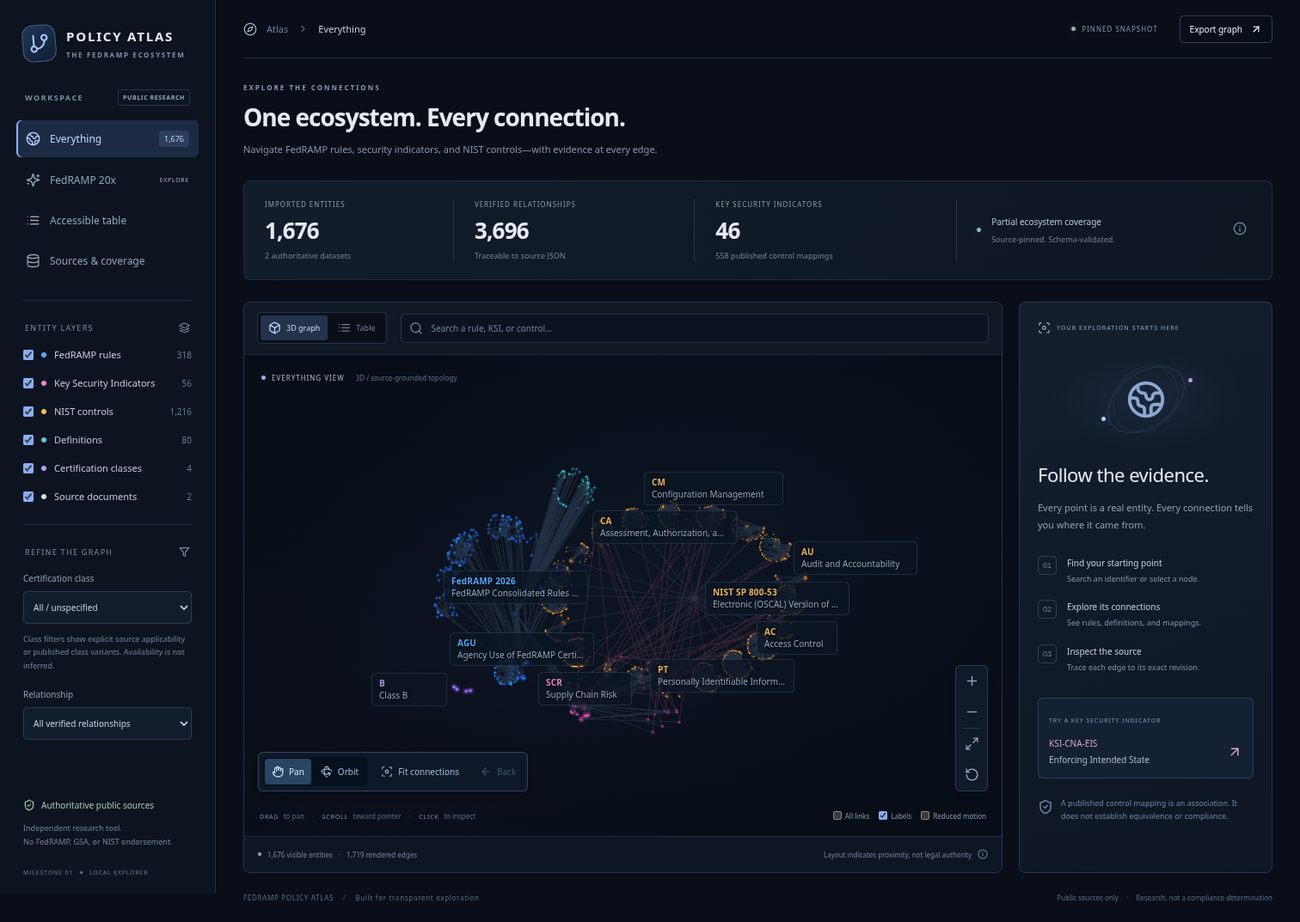
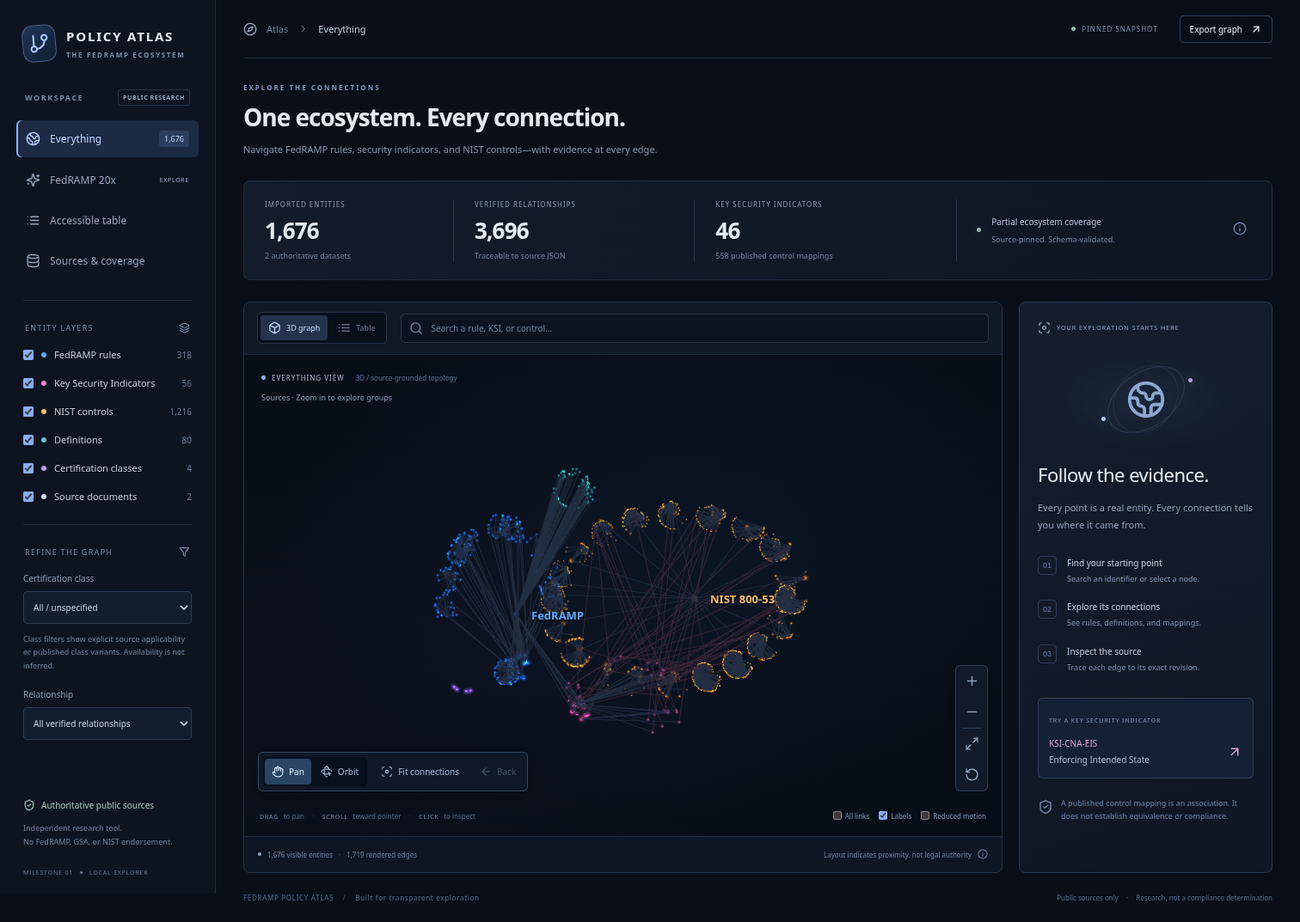
Simplify map labels into source, group, and detail zoom levels

diff --git a/src/graph/universe-engine.ts b/src/graph/universe-engine.ts
@@ -2,7 +2,7 @@ import * as THREE from 'three';
 import {OrbitControls} from 'three/addons/controls/OrbitControls.js';
 import type {Entity,Edge} from '../data/types';
 import {entityColor,neighbors,type Position} from './model';
-import {fittedBounds,hubKinds,labelPriority,placeLabels,type LabelCandidate,relationshipNames,detailLabelsEnabled,canonicalView} from './navigation';
+import {fittedBounds,hubKinds,labelPriority,placeLabels,type LabelCandidate,relationshipNames,labelLevel,labelKindVisible,labelBudget,type LabelLevel,canonicalView} from './navigation';
 interface CameraFrame {position:THREE.Vector3;target:THREE.Vector3}
 interface Label {node:Entity;element:HTMLButtonElement;width:number;height:number}
 export class UniverseEngine {
@@ -45,8 +45,8 @@ export class UniverseEngine {
  private lastLabelFrame:CameraFrame|null=null;
  private labelDimensions='';
  private labelAnchors=new Map<string,number>();
- private detailEligibleIds=new Set<string>();
- private detailedLabels=false;
+ private level:LabelLevel='sources';
+ private levelHint=document.createElement('div');
  private overviewDistance=650;
  private resetLayoutOnAnimationEnd=false;
  private activeEdge='';
@@ -61,12 +61,13 @@ export class UniverseEngine {
   this.points=new THREE.Points(new THREE.BufferGeometry(),new THREE.ShaderMaterial({transparent:true,depthWrite:false,vertexShader:'attribute vec3 color; attribute float size; varying vec3 vColor; void main(){vColor=color;vec4 mv=modelViewMatrix*vec4(position,1.0);gl_Position=projectionMatrix*mv;gl_PointSize=size*clamp(650.0/-mv.z,0.4,5.0);}',fragmentShader:'varying vec3 vColor; void main(){float r=length(gl_PointCoord-0.5)*2.0;if(r>1.0)discard;gl_FragColor=vec4(vColor*(1.0+exp(-r*r*30.0)),exp(-r*r*3.5));}',blending:THREE.AdditiveBlending}));this.scene.add(this.points);
   this.lines=new THREE.LineSegments(new THREE.BufferGeometry(),new THREE.LineBasicMaterial({vertexColors:true,transparent:true,opacity:.75,depthWrite:false}));this.scene.add(this.lines);
   this.ring=new THREE.Mesh(new THREE.RingGeometry(1,1.18,48),new THREE.MeshBasicMaterial({color:0xf4e9ff,transparent:true,opacity:.95,depthTest:false,side:THREE.DoubleSide}));this.ring.renderOrder=100;this.ring.visible=false;this.scene.add(this.ring);
-  this.labelLayer.className='graph-labels adaptive-labels';this.edgeLayer.className='edge-labels';host.append(this.labelLayer,this.edgeLayer);
-  const measure=document.createElement('canvas').getContext('2d')!;measure.font='11px system-ui';
+  this.labelLayer.className='graph-labels adaptive-labels';this.edgeLayer.className='edge-labels';this.levelHint.className='map-level-hint';host.append(this.labelLayer,this.edgeLayer,this.levelHint);
+  const measure=document.createElement('canvas').getContext('2d')!;
   for(const n of allNodes){const element=document.createElement('button');element.className='map-label';element.dataset.nodeId=n.id;element.title=`${n.sourceIdentifier??n.id} · ${n.title}`;
-   const id=document.createElement('strong');id.textContent=n.kind==='source'?(n.id==='nist'?'NIST SP 800-53':'FedRAMP 2026'):n.sourceIdentifier??(hubKinds.has(n.kind)?n.id.split(':').at(-1)!.toUpperCase():n.id);
-   const title=document.createElement('span');title.textContent=n.title;element.append(id,title);element.style.color=entityColor(n);element.onclick=()=>this.onSelect(n.id);element.style.display='none';element.dataset.kind=n.kind;
-   const width=Math.max(88,Math.min(168,Math.ceil(Math.max(measure.measureText(id.textContent).width,measure.measureText(n.title).width)+18)));element.style.width=width+'px';this.labelObjects.set(n.id,{node:n,element,width,height:39});this.labelLayer.appendChild(element);
+   const text=n.kind==='source'?(n.id==='nist'?'NIST 800-53':'FedRAMP'):hubKinds.has(n.kind)?n.title:n.sourceIdentifier??n.title;
+   const title=document.createElement('strong');title.textContent=text;element.append(title);element.setAttribute('aria-label',`${text} · ${n.title}`);element.style.color=entityColor(n);element.onclick=()=>this.onSelect(n.id);element.style.display='none';element.dataset.kind=n.kind;
+   measure.font=n.kind==='source'?'600 13px system-ui':'500 11px system-ui';
+   const width=Math.max(48,Math.min(190,Math.ceil(measure.measureText(text).width+12)));element.style.width=width+'px';this.labelObjects.set(n.id,{node:n,element,width,height:26});this.labelLayer.appendChild(element);
   }
   this.returnLabel.className='selected-return';this.returnLabel.style.display='none';this.returnLabel.onclick=()=>this.fitConnections();host.appendChild(this.returnLabel);
   const start=(e:PointerEvent)=>{this.down=[e.clientX,e.clientY];this.dragging=true;canvas.dataset.keyboardFocus='false';};
@@ -114,7 +115,7 @@ export class UniverseEngine {
  private move(frame:CameraFrame,remember=true){this.resetLayoutOnAnimationEnd=false;if(this.camera.position.distanceTo(frame.position)<.05&&this.controls.target.distanceTo(frame.target)<.05){this.animation=null;return;}if(remember)this.remember();this.animation=null;const damping=this.controls.enableDamping;this.controls.enableDamping=false;this.controls.update();this.controls.enableDamping=damping;if(this.reduced)this.apply(frame);else this.animation={from:this.frame(),to:frame,start:performance.now()};}
  private fit(remember=true,ids?:Set<string>){const points=this.nodes.filter(n=>!ids||ids.has(n.id)).map(n=>this.positions.get(n.id)!);const bounds=fittedBounds(points,this.camera.aspect);if(!bounds)return;const direction=this.camera.position.clone().sub(this.controls.target).normalize();const target=new THREE.Vector3(...bounds.center);this.move({target,position:target.clone().addScaledVector(direction,bounds.distance)},remember);}
  fitAll(){this.fit();}
- resetView(remember=true){const home=canonicalView([...this.positions.values()],this.camera.aspect);if(!home)return;this.camera.up.set(0,1,0);this.detailedLabels=false;this.detailEligibleIds.clear();this.labelAnchors.clear();this.lastLabelFrame=null;this.labelLayoutDirty=true;const damping=this.controls.enableDamping;this.controls.enableDamping=false;this.controls.update();this.controls.enableDamping=damping;this.move({target:new THREE.Vector3(...home.target),position:new THREE.Vector3(...home.position)},remember);this.resetLayoutOnAnimationEnd=!!this.animation;}
+ resetView(remember=true){const home=canonicalView([...this.positions.values()],this.camera.aspect);if(!home)return;this.camera.up.set(0,1,0);this.level='sources';this.labelAnchors.clear();this.lastLabelFrame=null;this.labelLayoutDirty=true;const damping=this.controls.enableDamping;this.controls.enableDamping=false;this.controls.update();this.controls.enableDamping=damping;this.move({target:new THREE.Vector3(...home.target),position:new THREE.Vector3(...home.position)},remember);this.resetLayoutOnAnimationEnd=!!this.animation;}
  fitConnections(){if(!this.nodes.length){this.fitPending=true;return;}this.fit(true,this.selected?neighbors(this.selected,this.edges):undefined);}
  back(){this.animation=null;const frame=this.history.pop();if(frame)this.move(frame,false);this.onHistory(this.history.length>0);}
  zoom(factor:number){this.remember();this.animation=null;const v=this.camera.position.clone().sub(this.controls.target);v.setLength(THREE.MathUtils.clamp(v.length()*factor,12,5000));this.camera.position.copy(this.controls.target).add(v);this.controls.update();}
@@ -123,18 +124,19 @@ export class UniverseEngine {
   const w=this.host.clientWidth,h=this.host.clientHeight,frame=this.frame(),dimensions=`${w}:${h}`;
   if(!this.labelLayoutDirty&&dimensions===this.labelDimensions&&this.lastLabelFrame&&frame.position.distanceTo(this.lastLabelFrame.position)<.005&&frame.target.distanceTo(this.lastLabelFrame.target)<.005)return;
   this.camera.updateMatrixWorld();this.lastLabelFrame=frame;this.labelDimensions=dimensions;this.labelLayoutDirty=false;
-  this.detailedLabels=detailLabelsEnabled(this.camera.position.distanceTo(this.controls.target),this.overviewDistance,this.detailedLabels);
-  if(!this.detailedLabels)this.detailEligibleIds.clear();
+  const nextLevel=labelLevel(this.camera.position.distanceTo(this.controls.target),this.overviewDistance,this.level);
+  if(nextLevel!==this.level){this.labelAnchors.clear();}this.level=nextLevel;
+  this.labelLayer.dataset.level=this.level;
+  this.levelHint.textContent=this.selected?'Selection · Connected entities':this.level==='sources'?'Sources · Zoom in to explore groups':this.level==='groups'?'Groups · Zoom in to explore rules, KSIs and controls':'Details · Select an entity to explore its connections';
+  this.levelHint.hidden=!this.labels;
   const view=new THREE.Vector3(),candidates:LabelCandidate[]=[];
   for(const n of this.nodes){const p=this.positions.get(n.id)!,label=this.labelObjects.get(n.id)!;view.set(...p).applyMatrix4(this.camera.matrixWorldInverse);const depth=-view.z;if(depth<=0)continue;const projected=new THREE.Vector3(...p).project(this.camera);if(projected.z>=1||Math.abs(projected.x)>1||Math.abs(projected.y)>1)continue;
    const scale=(n.kind==='enhancement'?3.5:5.5)*650/depth,priority=labelPriority(n.id,n.kind,this.selected,this.related);
-   const threshold=this.detailEligibleIds.has(n.id)?4.8:6;
-   const detail=this.detailedLabels&&scale>threshold;if(detail)this.detailEligibleIds.add(n.id);else this.detailEligibleIds.delete(n.id);
-   // Explicit selection retains readable neighbors; the unselected overview stays group-only.
-   const eligible=n.id===this.selected||(this.labels&&(hubKinds.has(n.kind)||detail||!!this.related?.has(n.id)));
+   // Selection reveals direct neighbors; otherwise each zoom level has its own label set.
+   const eligible=n.id===this.selected||(this.labels&&(this.related?this.related.has(n.id):labelKindVisible(n.kind,this.level)));
    candidates.push({id:n.id,x:(projected.x*.5+.5)*w,y:(-projected.y*.5+.5)*h,width:label.width,height:label.height,priority,scale,eligible});
   }
-  const placed=placeLabels(candidates,w,h,w<500?25:65,this.labelAnchors);const visible=new Set(placed.map(p=>p.id));this.labelAnchors=new Map(placed.map(p=>[p.id,p.anchor]));
+  const placed=placeLabels(candidates,w,h,labelBudget(this.level,w<500,!!this.selected),this.labelAnchors);const visible=new Set(placed.map(p=>p.id));this.labelAnchors=new Map(placed.map(p=>[p.id,p.anchor]));
   for(const id of this.visibleLabelIds)if(!visible.has(id))this.labelObjects.get(id)!.element.style.display='none';
   for(const p of placed){const item=this.labelObjects.get(p.id)!.element;item.classList.toggle('selected',p.id===this.selected);item.classList.toggle('neighbor',!!this.related?.has(p.id));item.style.display='block';item.style.transform=`translate(${Math.round(p.left)}px,${Math.round(p.top)}px)`;}
   this.visibleLabelIds=visible;
@@ -150,5 +152,5 @@ export class UniverseEngine {
   if(this.selected&&this.nodes.some(n=>n.id===this.selected)){const p=this.positions.get(this.selected)!;this.ring.visible=true;this.ring.position.set(...p);this.ring.quaternion.copy(this.camera.quaternion);const size=this.camera.position.distanceTo(this.ring.position)*Math.tan(this.camera.fov*Math.PI/360)/Math.max(1,this.host.clientHeight)*18;this.ring.scale.setScalar(size);}else this.ring.visible=false;
   this.drawLabels(now);this.renderer.render(this.scene,this.camera);
  };
- dispose(){cancelAnimationFrame(this.raf);this.resizeObserver.disconnect();this.callbacks();this.controls.dispose();this.points.geometry.dispose();(this.points.material as THREE.Material).dispose();this.lines.geometry.dispose();(this.lines.material as THREE.Material).dispose();this.ring.geometry.dispose();(this.ring.material as THREE.Material).dispose();this.renderer.dispose();this.renderer.domElement.remove();this.labelLayer.remove();this.edgeLayer.remove();this.returnLabel.remove();}
+ dispose(){cancelAnimationFrame(this.raf);this.resizeObserver.disconnect();this.callbacks();this.controls.dispose();this.points.geometry.dispose();(this.points.material as THREE.Material).dispose();this.lines.geometry.dispose();(this.lines.material as THREE.Material).dispose();this.ring.geometry.dispose();(this.ring.material as THREE.Material).dispose();this.renderer.dispose();this.renderer.domElement.remove();this.labelLayer.remove();this.edgeLayer.remove();this.returnLabel.remove();this.levelHint.remove();}
 }

diff --git a/src/style.css b/src/style.css
@@ -5,6 +5,6 @@
 @media(max-width:700px){.sidebar{display:none;position:fixed;z-index:20;left:0;top:0;width:245px;box-shadow:15px 0 60px #000c}.sidebar.mobile-open{display:flex}.main-area{padding:0 14px;width:100%}.topbar{height:57px}.topbar-right .snapshot{display:none}.topbar a{font-size:9px}.heading{padding:24px 0;gap:12px}.heading h1{font-size:24px;line-height:1.35;letter-spacing:-.7px}.eyebrow{font-size:7px}.heading p{font-size:10px;max-width:330px}.mobile-filter{display:flex;align-items:center;gap:5px;font-size:9px;flex-shrink:0}.stats-bar{margin-bottom:17px;padding:16px 0}.stat{padding:0 11px}.stat>span{font-size:6px;letter-spacing:.6px;line-height:1.6;min-height:20px}.stat strong{font-size:23px;margin:5px 0}.stat small{font-size:7px;line-height:1.6}.stat:last-of-type{border:0}.graph-stage{height:480px}.graph-toolbar{height:59px;gap:8px}.view-switch button{font-size:8px;gap:4px}.view-switch button svg{width:12px}.search-box{height:31px;gap:5px}.search-box input{font-size:8px}.search-box>svg{width:13px}.search-results{left:auto;right:0;width:285px}.canvas-caption{top:16px;left:14px;font-size:7px}.graph-labels button{font-size:6px;max-width:100px}.graph-help{font-size:6px}.graph-help small{font-size:7px}.render-options{font-size:7px}.graph-footer{font-size:7px;padding:0 10px;height:37px}.explorer-layout{gap:17px}.welcome-panel{display:block}.welcome-panel h2{margin-top:24px}.start-steps{margin:23px 0}.mapping-note{margin-top:20px}.inspector{height:650px}.page-footer{font-size:7px;line-height:1.8;padding-bottom:25px}.sources-page{padding:20px 16px}.source-cards article{padding:19px 15px}.source-card-title{font-size:8px}.source-status{font-size:7px}.source-card-links{gap:14px}.source-card-links a{font-size:9px}.table-wrap{padding:0 8px}.table-wrap td{font-size:8px;padding:12px 5px}.table-wrap td strong{font-size:8px}.table-wrap td span,.table-wrap td small{font-size:8px}.table-wrap th{font-size:7px}}
 @media(prefers-reduced-motion:reduce){*{scroll-behavior:auto!important;transition:none!important}}
 .update-panel{border:1px solid #30445f;background:linear-gradient(115deg,#15253a,#111c2c);border-radius:7px;padding:23px;margin-top:22px}.update-heading{display:flex;align-items:center;gap:12px;color:#9abde4}.update-heading .eyebrow{display:block;margin-bottom:6px;font-size:7px}.update-heading h2{font-family:Manrope,system-ui,sans-serif;font-size:17px;font-weight:500;margin:0;color:#d2e0f2}.review-badge{margin-left:auto;display:flex;gap:6px;align-items:center;color:#a3c3b4;font-size:8px;white-space:nowrap}.update-panel>.hint{margin:14px 0 20px;max-width:850px}.update-metrics{display:grid;grid-template-columns:1fr 1fr 1fr;gap:20px;border-top:1px solid #2b3e56;padding-top:17px}.update-metrics span{display:block;color:#718aab;font-size:7px;letter-spacing:1px;margin-bottom:8px}.update-metrics strong,.update-metrics code{font-size:10px;color:#b9cce5;font-weight:400}.update-warning{color:#d2b783;font-size:10px;display:flex;gap:7px;align-items:center;line-height:1.8}.pending-update{margin-top:20px;border-top:1px solid #344862;padding-top:19px}.pending-update>strong{font-size:11px;color:#c2cde5}.pending-update>p{font-size:10px;color:#8ca3c2}.change-counts{display:flex;gap:9px;flex-wrap:wrap;margin:14px 0}.change-counts span{background:#1e314a;border:1px solid #344c6b;border-radius:5px;padding:8px;font-size:8px;color:#8da5c7}.change-counts b{font-size:13px;display:block;color:#baceeb;margin-bottom:4px}.update-actions{display:flex;gap:20px;align-items:center;margin:18px 0 0}.update-actions button{background:#2a4261;border:1px solid #49698d;padding:9px 11px;border-radius:4px;font-size:10px}.update-actions a{display:flex;align-items:center;gap:6px;font-size:10px;color:#a6c4ee}.change-report{border-top:1px solid #344862;margin-top:25px;padding-top:12px}.change-report h3{color:#9db5d5;font-size:12px;font-weight:500}.change-report details{padding:9px;border:1px solid #2b415e;border-radius:4px;margin:7px 0}.changed-record{background:#0e1a2a}.change-report summary{overflow-wrap:anywhere}@media(max-width:700px){.update-panel{padding:17px 13px}.update-heading{align-items:flex-start;flex-wrap:wrap}.update-heading>svg{width:15px}.update-heading h2{font-size:14px}.review-badge{margin-left:26px}.update-metrics{grid-template-columns:1fr;gap:15px}.update-actions{gap:13px}.update-actions button,.update-actions a{font-size:9px}}
-.navigation-toolbar{position:absolute;bottom:52px;left:16px;display:flex;align-items:center;gap:8px;z-index:3;background:#0e1929ed;border:1px solid #31465f;border-radius:6px;padding:5px;box-shadow:0 4px 18px #0003}.navigation-toolbar button{display:flex;gap:6px;align-items:center;font-size:10px;padding:8px;color:#a0b9dc;border-radius:4px}.navigation-modes{display:flex;background:#07111e;border-radius:4px;gap:3px;padding:2px}.navigation-modes button[aria-pressed=true]{background:#294563;color:#d6e8ff}.navigation-toolbar>button:disabled{opacity:.35}.universe canvas{touch-action:none}.universe canvas:focus,.universe canvas:focus-visible{outline:none}.universe canvas[data-keyboard-focus="true"]:focus{outline:2px solid #71b8ff;outline-offset:-3px}.graph-labels.adaptive-labels .map-label{font:11px/1.35 system-ui,sans-serif;max-width:168px;text-align:left;opacity:.94;white-space:nowrap;padding:5px 8px;height:39px;background:#0a1422c9;border:1px solid #3a4e6b77;border-radius:5px;text-shadow:0 1px 3px #000;transition:none;overflow:hidden}.map-label strong{font-size:10px;letter-spacing:.2px;display:block;overflow:hidden;text-overflow:ellipsis}.map-label span{display:block;overflow:hidden;text-overflow:ellipsis;color:#9aabc4;font-size:10px;margin-top:1px}.graph-labels.adaptive-labels .map-label.selected{background:#3e2849f2;border-color:#eeb3df;color:#ffdbf4!important;box-shadow:0 0 15px #d580bc33}.map-label.selected span{color:#e3bfdc}.graph-labels.adaptive-labels .map-label.neighbor{border-color:#6a608a}.edge-labels{position:absolute;inset:0;pointer-events:none;overflow:hidden}.edge-labels button{position:absolute;top:0;left:0;pointer-events:auto;font-size:8px;height:24px;width:142px;white-space:nowrap;overflow:hidden;text-overflow:ellipsis;padding:4px 8px;border:1px solid #69557f;background:#231c32ed;border-radius:4px;color:#dfbce3;z-index:1}.selected-return{position:absolute;top:58px;right:14px;padding:8px 10px;font-size:10px;background:#3e2849ee;border:1px solid #b888b2;border-radius:5px;color:#f4c7e6;z-index:2}.relationship-bar{display:flex;gap:6px;flex-wrap:wrap;align-items:center;padding:10px 14px;border-bottom:1px solid #283a52;background:#121e30}.relationship-bar>span{font-size:7px;letter-spacing:1px;color:#819bbf;margin-right:4px}.relationship-bar button{font-size:9px;color:#9eb6d8;padding:5px 8px;border:1px solid #334863;border-radius:4px}.relationship-bar button[aria-pressed=true]{background:#2b3859;color:#e1cff0;border-color:#8d78aa}.connection-group-title{font-size:10px;font-weight:500;letter-spacing:.2px;color:#b6a6d4;margin:16px 0 8px}.graph-stage .graph-help{bottom:18px;left:18px}.graph-stage .render-options{bottom:18px;right:18px;left:auto}.graph-stage .graph-controls{bottom:52px;right:16px}.graph-stage .graph-controls button{width:36px;height:36px}@media(max-width:1200px){.graph-stage .render-options{bottom:35px;left:18px;right:auto}.navigation-toolbar{bottom:67px;max-width:calc(100% - 72px)}.navigation-toolbar>button span{display:none}.navigation-toolbar button{font-size:9px;padding:7px}.graph-stage .graph-controls{bottom:67px}}@media(max-width:700px){.navigation-toolbar{left:10px;gap:4px;padding:4px}.navigation-toolbar button{font-size:9px;min-height:32px;padding:7px}.navigation-toolbar svg{width:13px}.relationship-bar{padding:9px;gap:5px}.relationship-bar>span{width:100%;font-size:7px}.relationship-bar button{font-size:8px}.graph-stage .graph-help{left:12px}.graph-stage .render-options{left:12px}.graph-labels.adaptive-labels .map-label{font-size:11px}.canvas-caption small{display:none}}
+.navigation-toolbar{position:absolute;bottom:52px;left:16px;display:flex;align-items:center;gap:8px;z-index:3;background:#0e1929ed;border:1px solid #31465f;border-radius:6px;padding:5px;box-shadow:0 4px 18px #0003}.navigation-toolbar button{display:flex;gap:6px;align-items:center;font-size:10px;padding:8px;color:#a0b9dc;border-radius:4px}.navigation-modes{display:flex;background:#07111e;border-radius:4px;gap:3px;padding:2px}.navigation-modes button[aria-pressed=true]{background:#294563;color:#d6e8ff}.navigation-toolbar>button:disabled{opacity:.35}.universe canvas{touch-action:none}.universe canvas:focus,.universe canvas:focus-visible{outline:none}.universe canvas[data-keyboard-focus="true"]:focus{outline:2px solid #71b8ff;outline-offset:-3px}.graph-labels.adaptive-labels .map-label{font:500 11px/1.4 system-ui,sans-serif;max-width:190px;text-align:left;opacity:1;white-space:nowrap;padding:5px 6px;height:26px;background:transparent;border:0;border-radius:0;text-shadow:0 1px 3px #080d16,0 0 6px #080d16,0 0 10px #080d16;transition:none;overflow:hidden;box-shadow:none}.map-label strong{font:inherit;display:block;overflow:hidden;text-overflow:ellipsis}.graph-labels.adaptive-labels .map-label[data-kind=source]{font-size:13px;font-weight:600}.graph-labels.adaptive-labels .map-label.selected{color:#ffdbf4!important;text-decoration:underline;text-underline-offset:4px}.map-level-hint{position:absolute;top:43px;left:20px;right:16px;font-size:9px;line-height:1.5;color:#8b9cb3;pointer-events:none}.edge-labels{position:absolute;inset:0;pointer-events:none;overflow:hidden}.edge-labels button{position:absolute;top:0;left:0;pointer-events:auto;font-size:8px;height:24px;width:142px;white-space:nowrap;overflow:hidden;text-overflow:ellipsis;padding:4px 8px;border:1px solid #69557f;background:#231c32ed;border-radius:4px;color:#dfbce3;z-index:1}.selected-return{position:absolute;top:58px;right:14px;padding:8px 10px;font-size:10px;background:#3e2849ee;border:1px solid #b888b2;border-radius:5px;color:#f4c7e6;z-index:2}.relationship-bar{display:flex;gap:6px;flex-wrap:wrap;align-items:center;padding:10px 14px;border-bottom:1px solid #283a52;background:#121e30}.relationship-bar>span{font-size:7px;letter-spacing:1px;color:#819bbf;margin-right:4px}.relationship-bar button{font-size:9px;color:#9eb6d8;padding:5px 8px;border:1px solid #334863;border-radius:4px}.relationship-bar button[aria-pressed=true]{background:#2b3859;color:#e1cff0;border-color:#8d78aa}.connection-group-title{font-size:10px;font-weight:500;letter-spacing:.2px;color:#b6a6d4;margin:16px 0 8px}.graph-stage .graph-help{bottom:18px;left:18px}.graph-stage .render-options{bottom:18px;right:18px;left:auto}.graph-stage .graph-controls{bottom:52px;right:16px}.graph-stage .graph-controls button{width:36px;height:36px}@media(max-width:1200px){.graph-stage .render-options{bottom:35px;left:18px;right:auto}.navigation-toolbar{bottom:67px;max-width:calc(100% - 72px)}.navigation-toolbar>button span{display:none}.navigation-toolbar button{font-size:9px;padding:7px}.graph-stage .graph-controls{bottom:67px}}@media(max-width:700px){.navigation-toolbar{left:10px;gap:4px;padding:4px}.navigation-toolbar button{font-size:9px;min-height:32px;padding:7px}.navigation-toolbar svg{width:13px}.relationship-bar{padding:9px;gap:5px}.relationship-bar>span{width:100%;font-size:7px}.relationship-bar button{font-size:8px}.graph-stage .graph-help{left:12px}.graph-stage .render-options{left:12px}.graph-labels.adaptive-labels .map-label{font-size:11px}.canvas-caption small{display:none}}
 
-.graph-labels.adaptive-labels .map-label:hover{background:#24344de8;border-color:#899db9}
+.graph-labels.adaptive-labels .map-label:hover{text-decoration:underline;text-underline-offset:4px}

diff --git a/tests/navigation.test.ts b/tests/navigation.test.ts
@@ -1,7 +1,7 @@
 import {describe,it,expect} from 'vitest';
 import {readFileSync} from 'node:fs';
 import * as THREE from 'three';
-import {fittedBounds,placeLabels,labelPriority,detailLabelsEnabled,canonicalView,type LabelCandidate} from '../src/graph/navigation';
+import {fittedBounds,placeLabels,labelPriority,labelLevel,labelKindVisible,labelBudget,canonicalView,type LabelCandidate} from '../src/graph/navigation';
 import {layout,neighbors,entityColor,palette} from '../src/graph/model';
 import type {Graph} from '../src/data/types';
 const graph:Graph=JSON.parse(readFileSync('public/data/graph.json','utf8'));
@@ -16,7 +16,9 @@ describe('navigation camera fitting and labels',()=>{
  });
  it('handles empty and single-entity views without invalid bounds',()=>{expect(fittedBounds([],1)).toBeNull();const fit=fittedBounds([[1,2,3]],1)!;expect(fit.center).toEqual([1,2,3]);expect(fit.distance).toBeGreaterThan(8);expect(Number.isFinite(fit.distance)).toBe(true);});
  it('keeps hover out of layout priorities while prioritizing selected entities and neighbors',()=>{expect(labelPriority('selected','ksi','selected',new Set())).toBe(0);expect(labelPriority('neighbor','enhancement','selected',new Set(['neighbor']))).toBe(1);expect(labelPriority('hub','family',undefined,null)).toBe(2);expect(labelPriority('leaf','rule',undefined,null)).toBe(3);});
- it('reveals details only after zooming in, and uses a separate zoom-out threshold',()=>{expect(detailLabelsEnabled(800,800,false)).toBe(false);expect(detailLabelsEnabled(560,800,false)).toBe(false);expect(detailLabelsEnabled(480,800,false)).toBe(true);expect(detailLabelsEnabled(560,800,true)).toBe(true);expect(detailLabelsEnabled(620,800,true)).toBe(false);});
+ it('separates source, group and detail zoom bands in both directions',()=>{expect(labelLevel(800,800,'sources')).toBe('sources');expect(labelLevel(640,800,'sources')).toBe('groups');expect(labelLevel(410,800,'groups')).toBe('groups');expect(labelLevel(320,800,'groups')).toBe('details');expect(labelLevel(410,800,'details')).toBe('details');expect(labelLevel(480,800,'details')).toBe('groups');expect(labelLevel(720,800,'groups')).toBe('groups');expect(labelLevel(800,800,'groups')).toBe('sources');expect(labelLevel(300,800,'sources')).toBe('details');expect(labelLevel(800,800,'details')).toBe('sources');});
+ it('replaces labels at each level rather than accumulating them',()=>{for(const kind of ['source','family','ruleset','theme','class','rule','ksi','control','enhancement'] as const){const levels=['sources','groups','details'] as const;expect(levels.filter(level=>labelKindVisible(kind,level))).toHaveLength(1);}expect(labelKindVisible('source','sources')).toBe(true);expect(labelKindVisible('class','groups')).toBe(true);expect(labelKindVisible('family','groups')).toBe(true);expect(labelKindVisible('ksi','details')).toBe(true);});
+ it('caps label density on desktop and mobile while keeping selections useful',()=>{expect(labelBudget('sources',false,false)).toBe(2);expect(labelBudget('groups',false,false)).toBe(10);expect(labelBudget('groups',true,false)).toBe(5);expect(labelBudget('details',false,false)).toBe(18);expect(labelBudget('details',true,false)).toBe(8);expect(labelBudget('details',false,true)).toBe(24);});
  it('uses the same canonical front-facing view regardless of the previous orbit',()=>{const points=layout(graph.nodes),home=canonicalView([...points.values()],1.6)!;expect(home.position[0]).toBe(home.target[0]);expect(home.position[1]).toBe(home.target[1]);expect(home.position[2]).toBeGreaterThan(home.target[2]);expect(home).toEqual(canonicalView([...points.values()],1.6));});
  it('distinguishes the two publisher hubs and their control/rule categories',()=>{expect(entityColor({kind:'source',sourceId:'fedramp'})).toBe(palette.rule);expect(entityColor({kind:'source',sourceId:'nist'})).toBe(palette.control);expect(palette.rule).not.toBe(palette.control);expect(entityColor({kind:'ksi',sourceId:'fedramp'})).toBe(palette.ksi);});
  it('retains a previously valid label anchor rather than repacking it',()=>{const c={id:'label',x:300,y:220,width:140,height:39,priority:2,scale:8,eligible:true};const p=placeLabels([c],800,560,65,new Map([['label',3]]));expect(p[0].anchor).toBe(3);});

diff --git a/src/graph/navigation.ts b/src/graph/navigation.ts
@@ -18,9 +18,9 @@ export function placeLabels(candidates:LabelCandidate[],width:number,height:numb
  const sorted=candidates.filter(c=>c.eligible).sort((a,b)=>a.priority-b.priority||b.scale-a.scale||a.id.localeCompare(b.id));
  for(const c of sorted){if(placed.length>=budget)break;
   const anchors=[[c.x+12,c.y-c.height/2],[c.x-c.width-12,c.y-c.height/2],[c.x-c.width/2,c.y-c.height-12],[c.x-c.width/2,c.y+12]];
-  if(c.priority===0)anchors.push([Math.max(8,Math.min(width-c.width-8,c.x-c.width/2)),Math.max(42,Math.min(height-125-c.height,c.y-c.height-12))]);
+  if(c.priority===0)anchors.push([Math.max(8,Math.min(width-c.width-8,c.x-c.width/2)),Math.max(66,Math.min(height-125-c.height,c.y-c.height-12))]);
   const previous=previousAnchors.get(c.id);const order=anchors.map((_,i)=>i);if(previous!==undefined&&previous<anchors.length)order.sort((a,b)=>(a===previous?-1:b===previous?1:a-b));
-  for(const anchor of order){const [left,top]=anchors[anchor];if(left<8||top<42||left+c.width>width-8||top+c.height>height-125)continue;
+  for(const anchor of order){const [left,top]=anchors[anchor];if(left<8||top<66||left+c.width>width-8||top+c.height>height-125)continue;
    const box={id:c.id,left,top,width:c.width,height:c.height,anchor};
    if(placed.some(p=>left<p.left+p.width+5&&left+c.width+5>p.left&&top<p.top+p.height+4&&top+c.height+4>p.top))continue;
    placed.push(box);break;
@@ -32,9 +32,19 @@ export function placeLabels(candidates:LabelCandidate[],width:number,height:numb
 export function labelPriority(id:string,kind:Kind,selected:string|undefined,related:Set<string>|null){
  return id===selected?0:related?.has(id)?1:hubKinds.has(kind)?2:3;
 }
-/** Zoom thresholds are relative to the responsive starting view, with a dead band. */
-export function detailLabelsEnabled(distance:number,overviewDistance:number,wasDetailed:boolean){
- return distance<overviewDistance*(wasDetailed?.76:.62);
+export type LabelLevel='sources'|'groups'|'details';
+/** Distinct zoom bands with hysteresis; fast zooms can cross multiple levels. */
+export function labelLevel(distance:number,overviewDistance:number,previous:LabelLevel):LabelLevel{
+ const ratio=distance/overviewDistance;
+ if(ratio<(previous==='details'?.56:.46))return 'details';
+ if(ratio<(previous==='sources'?.84:.94))return 'groups';
+ return 'sources';
+}
+export function labelKindVisible(kind:Kind,level:LabelLevel){
+ return level==='sources'?kind==='source':level==='groups'?hubKinds.has(kind)&&kind!=='source':!hubKinds.has(kind);
+}
+export function labelBudget(level:LabelLevel,mobile:boolean,selected:boolean){
+ return selected?(mobile?12:24):level==='sources'?2:level==='groups'?(mobile?5:10):(mobile?8:18);
 }
 export function canonicalView(points:Position[],aspect:number){
  const bounds=fittedBounds(points,aspect);if(!bounds)return null;

diff --git a/README.md b/README.md
@@ -19,7 +19,7 @@ Open the address Vite prints. The bundled public-source snapshots and generated 
 npm run ingest       # offline: verify hashes, validate both schemas, regenerate graph/report
 npm run lint
 npm run typecheck
-npm test             # 40 source fidelity, updater, navigation, and model tests
+npm test             # 42 source fidelity, updater, navigation, and model tests
 npm run build
 npm run preview      # serve the production build
 ```
@@ -39,7 +39,7 @@ The browser suite captures desktop and mobile screenshots in `docs/screenshots/`
 
 - Drag to pan by default. Choose **Orbit** for rotation, or right-drag to rotate in Pan mode. Scroll toward the pointer or use +/- to zoom. Click points/labels to inspect without moving the camera; search fits the selected neighborhood. Use **Fit connections**, **Back**, and **Fit all** to frame the visible field. **Reset view** restores the starting orientation, center, zoom, and Pan mode.
 - Search identifiers (for example `KSI-CNA-EIS` or `ac-2.1`), titles, rule text, or definitions. Enter opens the first result.
-- Toggle layers, choose a class, or filter relationship types without resetting the camera or changing node coordinates. Overview edges are sparse. Selection shows its direct connections; enable **All links** for all filtered edges. The starting overview shows family/group labels. Zoom reveals individual labels after a closer-scale threshold; selection also reveals its neighbors. Hover highlights labels without repacking them.
+- Toggle layers, choose a class, or filter relationship types without resetting the camera or changing node coordinates. Overview edges are sparse. Selection shows its direct connections; enable **All links** for all filtered edges. The starting overview labels only FedRAMP and NIST 800-53. Slight zoom replaces these with family, class, ruleset and KSI-theme labels; closer zoom replaces groups with individual identifiers. Compact, box-free labels are limited to 10 groups or 18 details on desktop (5 or 8 on mobile). Separate zoom-in/out thresholds prevent chatter. Selection reveals its direct neighbors; full titles remain in tooltips and the inspector. Hover underlines labels without repacking them.
 - Select an entity to read its source wording, class variants, published mappings, source update log, inherited applicability/effective metadata, full raw record, and exact source revision.
 - Use **Focus neighborhood** to isolate and frame adjacent entities. Relationship chips isolate published mappings, definitions, containment, or applicability. Selected edges show direction arrows; clicking a canvas relationship label opens its exact evidence in the inspector. Every listed relationship also has **View edge evidence**.
 - **FedRAMP 20x** filters the data to KSI themes/indicators, classes, shared and 20x process rules, definitions, and source documents. KSI control mappings remain inspectable in the drawer; choose Everything to render the NIST endpoints.

diff --git a/docs/progress-report.md b/docs/progress-report.md
@@ -59,3 +59,9 @@ Updated the full Actions runtime chain to verified Node 24 releases and confirme
 Addressed the reported pointer-focus border, hover-driven label repacking loop, initial label hierarchy, similar FedRAMP/NIST colors, and lack of a canonical view reset. Added stationary-layout caching, independent detail eligibility, stable label anchors, explicit zoom tiers, keyboard-only canvas focus feedback, blue/amber publisher colors, and a dedicated Reset view alongside Fit all. Source data, revisions, and verified mappings are unchanged. Added focused hover/overview/color/reset browser checks; see map-polish-browser-results.json and updated navigation implementation notes.
 
 The label/reset corrections passed 40 automated tests and 54 production-browser checks, including repeated-hover label stability, initial group-only labels, keyboard focus preservation, and canonical reset after orbiting. See [map polish report](map-polish.md) for screenshots and evidence limits.
+
+## Source-first overview and quieter label levels — 2026-10-30
+
+The starting map now shows only FedRAMP and NIST 800-53. A slight zoom switches to groups, and a closer zoom switches to individual identifiers. Each level replaces the previous labels, with separate exit thresholds to prevent chatter. Single-line labels have no surrounding boxes; desktop density is capped at 10 groups / 18 details, and mobile at 5 / 8. The map explains its current level with a short zoom hint. Hover remains stable, selected relationships retain evidence access, and reset restores the source-only overview when no entity is selected.
+
+Validation: lint, TypeScript and the Pages production build pass; all 42 automated tests and 51 browser checks pass. Screenshots capture the source, group, detail and mobile views. Browser checks exercise the local production build under `/FedRAMP-Policy-Atlas/`; live Pages browser access is restricted in this environment. The existing Three.js bundle-size warning remains. Source coverage remains 1,676 entities, 3,696 verified relationships and 558 published mappings.

diff --git a/docs/map-polish.md b/docs/map-polish.md
@@ -23,3 +23,13 @@ The browser checks use local Chromium software WebGL and a simulated mobile view
 ![Group-level overview with distinct publisher colors](screenshots/map-polish-overview.png)
 
 ![Mobile group-level overview and separate reset controls](screenshots/map-polish-mobile.png)
+
+## Source-first label hierarchy — 2026-10-30
+
+The unselected starting view now labels only FedRAMP and NIST 800-53. Zooming to less than 84% of the starting camera distance switches to real family, class, ruleset and KSI-theme labels. At less than 46%, individual identifiers replace the group labels. Zooming out uses separate 56% and 94% thresholds to avoid toggling near a boundary. These are presentation levels, not new graph entities or inferred relationships.
+
+Labels are single-line text without card backgrounds or borders. Sources use 13px text; groups and details use 11px text with a subtle dark shadow for contrast. Full titles remain available through tooltips, accessible names and the inspector. The current level and a short zoom hint appear above the map. The desktop caps are two sources, ten groups and eighteen details; narrow maps use five groups and eight details. Selection keeps its direct neighbors available within a separate limit (24 desktop, 12 narrow), with all relationships still available in the inspector.
+
+The layout remains collision-managed and stable under hover. Reset restores the source level for an unselected map. The graph, source revisions and provenance are unchanged.
+
+Screenshots: `screenshots/map-polish-overview.png`, `screenshots/map-polish-groups.png`, `screenshots/map-polish-details.png`, `screenshots/map-polish-mobile.png`. Browser validation uses the production build under the GitHub Pages project path. These checks do not substitute for physical-device or user usability testing.
